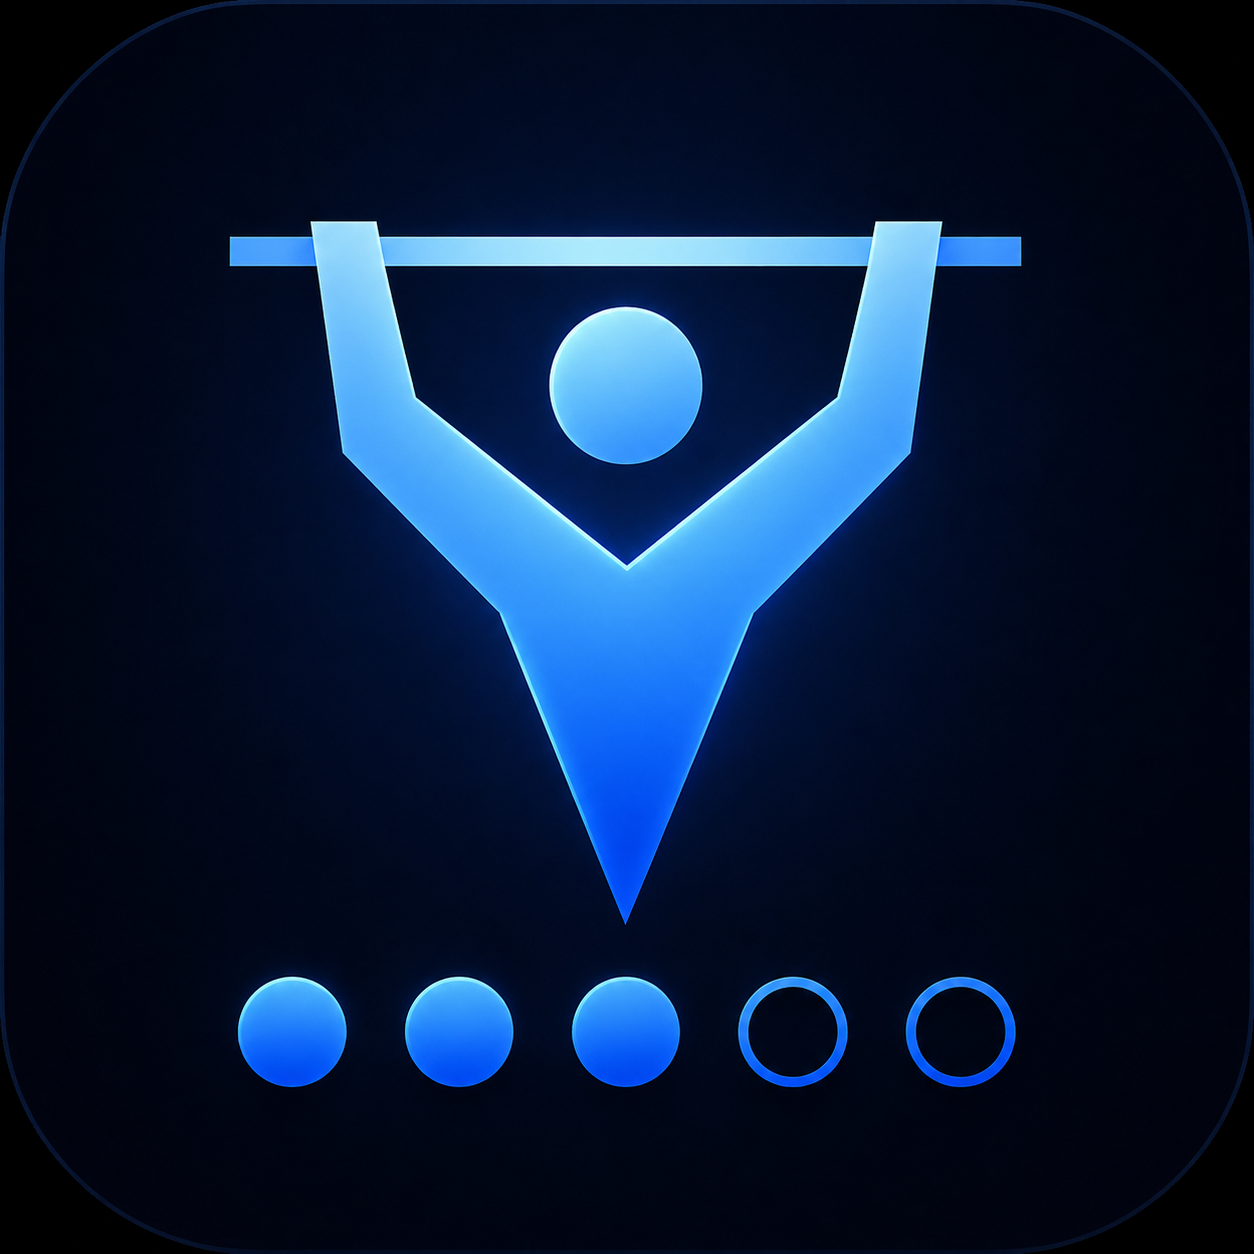
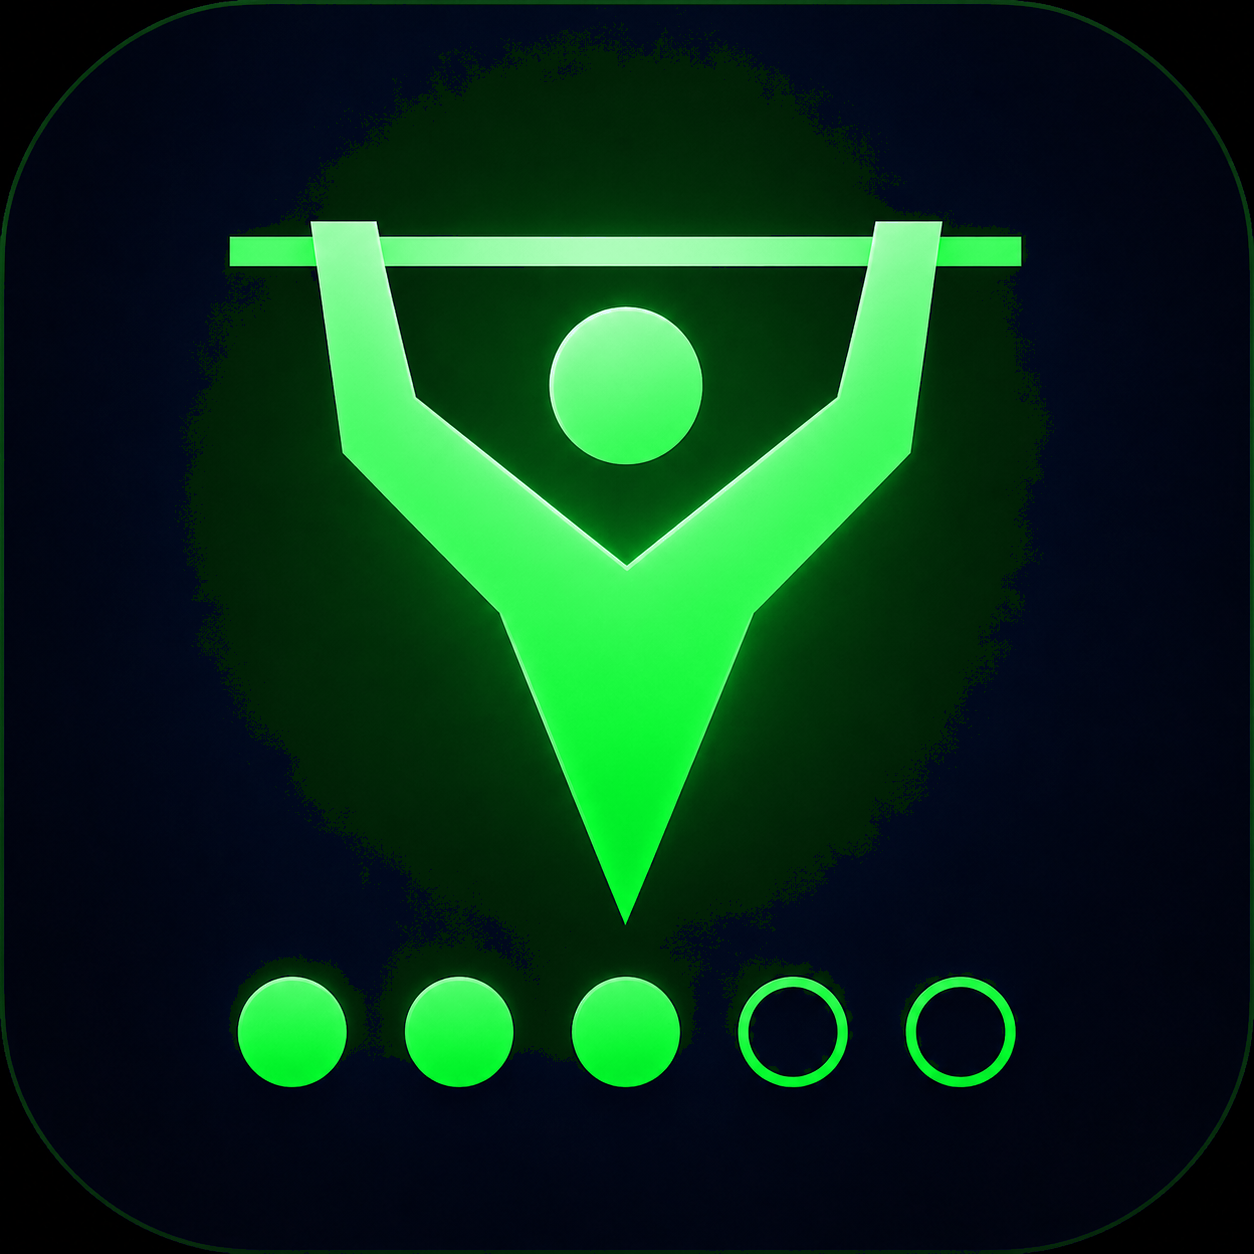
style: switch theme accents to green

diff --git a/index.html b/index.html
@@ -98,16 +98,16 @@
                 --surface: #161b22;
                 --surface-alt: #1c2128;
                 --border: #30363d;
-                --accent: #4493f8;
-                --accent-dim: rgba(68, 147, 248, 0.12);
+                --accent: #3fb950;
+                --accent-dim: rgba(63, 185, 80, 0.14);
                 --text: #e6edf3;
                 --text-muted: #8b949e;
                 --must: #f85149;
                 --must-bg: rgba(248, 81, 73, 0.1);
                 --must-border: rgba(248, 81, 73, 0.25);
-                --should: #d29922;
-                --should-bg: rgba(210, 153, 34, 0.1);
-                --should-border: rgba(210, 153, 34, 0.25);
+                --should: #7ee787;
+                --should-bg: rgba(126, 231, 135, 0.1);
+                --should-border: rgba(126, 231, 135, 0.25);
                 --can: #3fb950;
                 --can-bg: rgba(63, 185, 80, 0.1);
                 --can-border: rgba(63, 185, 80, 0.25);
@@ -120,16 +120,16 @@
                 --surface: #ffffff;
                 --surface-alt: #eef0f3;
                 --border: #d0d7de;
-                --accent: #0969da;
-                --accent-dim: rgba(9, 105, 218, 0.1);
+                --accent: #1a7f37;
+                --accent-dim: rgba(26, 127, 55, 0.1);
                 --text: #1f2328;
                 --text-muted: #636c76;
                 --must: #cf222e;
                 --must-bg: rgba(207, 34, 46, 0.07);
                 --must-border: rgba(207, 34, 46, 0.2);
-                --should: #9a6700;
-                --should-bg: rgba(154, 103, 0, 0.07);
-                --should-border: rgba(154, 103, 0, 0.2);
+                --should: #2da44e;
+                --should-bg: rgba(45, 164, 78, 0.07);
+                --should-border: rgba(45, 164, 78, 0.2);
                 --can: #1a7f37;
                 --can-bg: rgba(26, 127, 55, 0.07);
                 --can-border: rgba(26, 127, 55, 0.2);
@@ -300,7 +300,7 @@
 
             .day-section.active {
                 border-color: var(--accent);
-                box-shadow: 0 0 0 1px var(--accent-dim), 0 4px 24px rgba(68, 147, 248, 0.1);
+                box-shadow: 0 0 0 1px var(--accent-dim), 0 4px 24px rgba(63, 185, 80, 0.12);
             }
 
             .day-section.inactive {
@@ -676,8 +676,8 @@
             }
 
             .critical-set {
-                border: 2px solid #e8793a;
-                box-shadow: 0 0 0 3px rgba(232, 121, 58, 0.2);
+                border: 2px solid #7ee787;
+                box-shadow: 0 0 0 3px rgba(126, 231, 135, 0.22);
             }
 
             .bonus-set {

diff --git a/sw.js b/sw.js
@@ -1,4 +1,4 @@
-const CACHE_NAME = "v9"; // Change this version whenever you update your PWA
+const CACHE_NAME = "v10"; // Change this version whenever you update your PWA
 const urlsToCache = [
   "index.html",
   "icons/icon-192x192.png",
